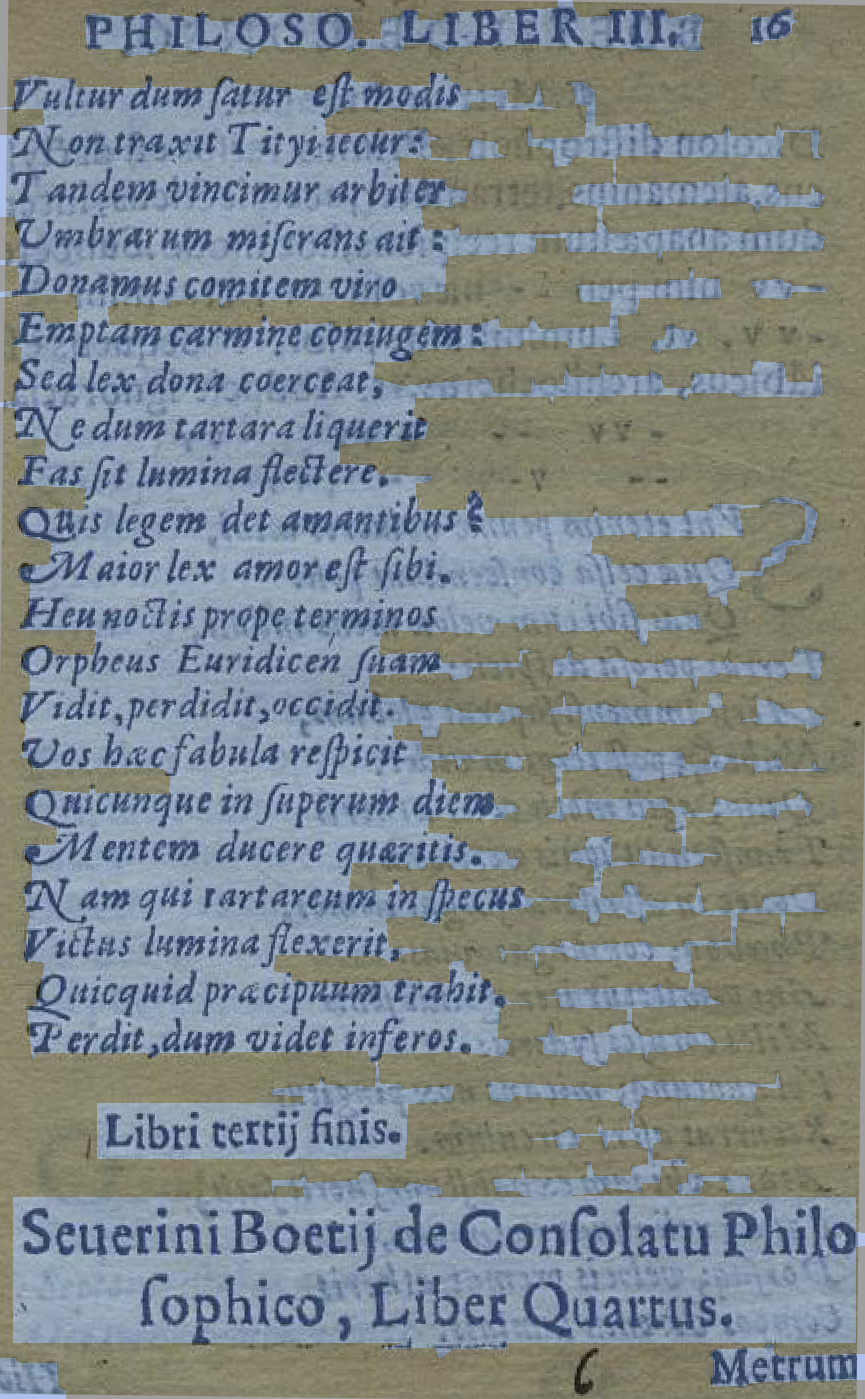
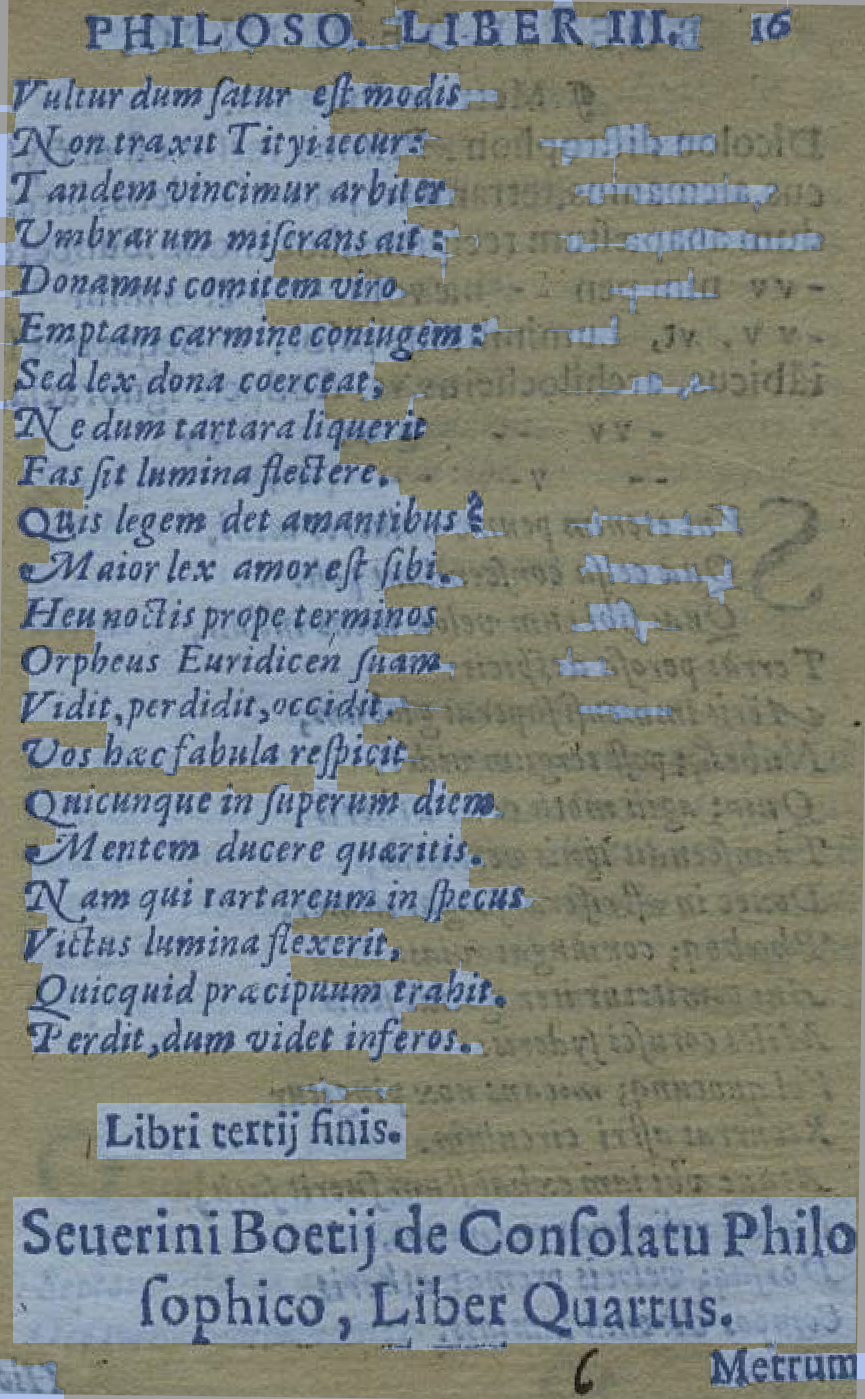
A marcacao passa a ser feita no tamanho de verdade da pagina
"as ferramentas de selecao precisam ser mais precisas, precisam conseguir
selecionar so o texto" - o Samuel, sobre o teste completo.

A mascara de tinta era calculada num reduzido de 1200 px de altura e a resposta
voltava ampliada com vizinho mais proximo. Numa pagina de 300 DPI isso e um
terco da resolucao: a marcacao saia com degraus de tres pixels em volta de cada
letra. Agora a conta e feita no tamanho da pagina, e o k e o mesmo que o filtro
usa - antes o detector e o filtro discordavam sobre o que era tinta na MESMA
pagina.

Regua da selecao: 23 de 26 para 24 de 26. O Pesel 73 passou a separar o titulo
impresso, o numero da pagina e as quatro legendas da foto do bordado - aberto e
conferido imagem por imagem.

O custo obrigou a mexer no medidor de espessura, que virou o gargalo: 1,9 s por
pagina contra 59 ms do proprio Sauvola. Ele passa a medir num reduzido e a
reconverter pela escala. Comparado com a medicao nativa nas 14 paginas do
acervo:

  altura   paginas com k fora de 0,01   custo por pagina
   1500              4 de 14                 105 ms
   2500              1 de 14                 319 ms
  nativo               -                    1900 ms

Em 2500 a resposta empata em 13 das 14 e o custo cai seis vezes.

diff --git a/relatorios/selecao.html b/relatorios/selecao.html
@@ -66,7 +66,7 @@ hr { border: none; border-top: 1px solid #e6e4e0; margin: 2.5em 0; }
 <p>Mede o detector de regioes nas mesmas paginas em toda rodada. Cada
 expectativa foi escrita OLHANDO a pagina, nunca a partir do que o
 programa devolve.</p>
-<p><strong>23 de 26 paginas passaram.</strong></p>
+<p><strong>24 de 26 paginas passaram.</strong></p>
 <h2>O que esta errado</h2>
 <table>
 <thead>
@@ -89,12 +89,6 @@ programa devolve.</p>
 <td>45</td>
 <td>prancha de padrao de bordado, com duas legendas impressas miudas</td>
 <td>texto impresso nao virou letra: so 0% da faixa em y=0.03-0.10; texto impresso nao virou letra: so 0% da faixa em y=0.54-0.63</td>
-</tr>
-<tr>
-<td>Pesel</td>
-<td>73</td>
-<td>foto de bordado montado, com titulo impresso no alto e quatro caixas de legenda no pe</td>
-<td>texto impresso nao virou letra: so 0% da faixa em y=0.03-0.11</td>
 </tr>
 </tbody>
 </table>
@@ -289,7 +283,7 @@ programa devolve.</p>
 <td>partitura manuscrita com letra gotica ocre e pautas</td>
 <td>texto</td>
 <td>0.0%</td>
-<td>88.2%</td>
+<td>89.9%</td>
 <td>0</td>
 <td>sim</td>
 </tr>
@@ -299,7 +293,7 @@ programa devolve.</p>
 <td>pagina de texto impresso em italico, com mancha do v</td>
 <td>texto</td>
 <td>0.0%</td>
-<td>54.3%</td>
+<td>45.6%</td>
 <td>0</td>
 <td>sim</td>
 </tr>
@@ -309,7 +303,7 @@ programa devolve.</p>
 <td>pagina de texto impresso</td>
 <td>texto</td>
 <td>0.0%</td>
-<td>57.4%</td>
+<td>54.5%</td>
 <td>0</td>
 <td>sim</td>
 </tr>
@@ -319,7 +313,7 @@ programa devolve.</p>
 <td>pagina so de texto, com notas na margem e manchas de</td>
 <td>texto</td>
 <td>0.0%</td>
-<td>97.0%</td>
+<td>97.2%</td>
 <td>0</td>
 <td>sim</td>
 </tr>
@@ -358,10 +352,10 @@ programa devolve.</p>
 <td>73</td>
 <td>foto de bordado montado, com titulo impresso no alto</td>
 <td>texto_e_desenho</td>
-<td>88.7%</td>
-<td>6.2%</td>
+<td>58.4%</td>
+<td>20.2%</td>
 <td>0</td>
-<td>NAO</td>
+<td>sim</td>
 </tr>
 <tr>
 <td>Rhetorica</td>
@@ -369,7 +363,7 @@ programa devolve.</p>
 <td>xilogravura emoldurada embaixo de um bloco de texto</td>
 <td>texto_e_desenho</td>
 <td>48.1%</td>
-<td>23.2%</td>
+<td>23.3%</td>
 <td>0</td>
 <td>sim</td>
 </tr>
@@ -386,6 +380,6 @@ programa devolve.</p>
 <p>Uma imagem por pagina, com a marcacao por cima: <strong>vermelho e gravura,
 azul e letra, sem cor e papel</strong>. Estao na pasta <code>selecao/</code> ao lado
 deste relatorio, e as erradas tem ERRADO no nome.</p>
-<p class="rodape">Editor de Impressão &middot; gerado em 06/08/2026 às 19:15</p>
+<p class="rodape">Editor de Impressão &middot; gerado em 08/08/2026 às 01:49</p>
 </body>
 </html>

diff --git a/core/filtros.py b/core/filtros.py
@@ -292,8 +292,36 @@ ESPESSURA_DE_LETRA_FINA, ESPESSURA_DE_LETRA_GROSSA = 5.0, 10.0
 K_PARA_LETRA_FINA, K_PARA_LETRA_GROSSA = 0.30, 0.12
 
 
+# Altura em que a espessura do traco e medida. A medicao usa esqueletizacao,
+# que e a conta mais cara do programa: numa pagina de 300 DPI ela sozinha levava
+# 1,9 s, contra 59 ms do proprio Sauvola. Medida num reduzido e reconvertida
+# pela escala, cai para pouco mais de 100 ms sem mudar a resposta - a espessura
+# e uma media sobre milhares de tracos, e reduzir nao a enviesa.
+#
+# A altura saiu de comparar com a medicao nativa nas 14 paginas do acervo:
+#
+#   altura   paginas com k fora de 0,01 do nativo   custo por pagina
+#    1500                 4 de 14                       105 ms
+#    2000                 2 de 14                       207 ms
+#    2500                 1 de 14                       319 ms
+#    3000                 1 de 14                       435 ms
+#   nativo                  -                          1900 ms
+#
+# Em 2500 a resposta empata com a nativa em 13 das 14 e o custo cai seis vezes.
+# Acima disso so se paga mais caro pela mesma resposta. A que sobra e a pagina
+# 454 do Marial, que cai bem no meio da rampa entre traco fino e grosso, onde
+# qualquer decimo de pixel move o k.
+ALTURA_PARA_MEDIR_TRACO = 2500
+
+
 def k_para_a_letra(cinza: np.ndarray) -> float:
     """O k que a letra desta pagina pede. Ver o comentario acima."""
+    escala = min(1.0, ALTURA_PARA_MEDIR_TRACO / max(1, cinza.shape[0]))
+    if escala < 1.0:
+        cinza = cv2.resize(cinza, (max(8, int(cinza.shape[1] * escala)),
+                                   max(8, int(cinza.shape[0] * escala))),
+                           interpolation=cv2.INTER_AREA)
+
     # A mesma mascara que a regua usa para medir espessura - Otsu -, para o
     # filtro e a regua nao discordarem sobre a grossura da mesma letra.
     _lim, tinta = cv2.threshold(
@@ -308,7 +336,9 @@ def k_para_a_letra(cinza: np.ndarray) -> float:
     esqueleto = skeletonize(tinta > 0)
     if not esqueleto.any():
         return K_NORMAL
-    espessura = float(2.0 * distancia[esqueleto].mean())
+    # De volta a escala da pagina: os limites de 5 e 10 pixels estao escritos
+    # no tamanho de verdade, e nao no reduzido.
+    espessura = float(2.0 * distancia[esqueleto].mean()) / escala
 
     fatia = np.clip(
         (espessura - ESPESSURA_DE_LETRA_FINA)

diff --git a/core/detectar_regioes.py b/core/detectar_regioes.py
@@ -360,25 +360,31 @@ def mascara_de_tinta(img: np.ndarray) -> np.ndarray:
 
     Sauvola local, e nao limiar global: papel envelhecido tem manchas que um
     limiar unico transforma em tinta.
+
+    A conta e feita no TAMANHO DE VERDADE da pagina. Antes ela era feita num
+    reduzido de 1200 px de altura e a resposta voltava ampliada com vizinho mais
+    proximo: numa pagina de 300 DPI isso e um terco da resolucao, e a marcacao
+    saia com degraus de tres pixels em volta de cada letra. Era a queixa do
+    Samuel de que "as ferramentas de selecao precisam ser mais precisas". Uma
+    pagina de cada vez na memoria continua valendo - o que sai daqui e uma
+    mascara de um byte por pixel, e ela morre com a pagina.
+
+    O k tambem passou a ser o mesmo que o filtro usa, medido pela espessura do
+    traco da propria pagina. Com dois k diferentes, o detector e o filtro
+    discordavam sobre o que era tinta na MESMA pagina.
     """
-    from core.filtros import binarizar, janela_para_altura
+    from core.filtros import binarizar, janela_para_altura, k_para_a_letra
 
     cinza = cv2.cvtColor(img, cv2.COLOR_BGR2GRAY) if img.ndim == 3 else img
     altura, largura = cinza.shape[:2]
 
-    escala = min(1.0, ALTURA_ANALISE / altura)
-    pequena = cv2.resize(cinza, (max(8, int(largura * escala)),
-                                 max(8, int(altura * escala))),
-                         interpolation=cv2.INTER_AREA) if escala < 1 else cinza
+    binaria = binarizar(cinza, janela=janela_para_altura(altura),
+                        k=k_para_a_letra(cinza))
+    tinta = (binaria == 0).astype(np.uint8)
 
-    binaria = binarizar(pequena, janela=janela_para_altura(pequena.shape[0]), k=0.20)
-    tinta = binaria == 0
-
-    folga = max(1, int(FOLGA_DA_TINTA * min(pequena.shape[:2])) | 1)
-    tinta = cv2.dilate(tinta.astype(np.uint8),
-                       cv2.getStructuringElement(cv2.MORPH_ELLIPSE, (folga, folga)))
-
-    return cv2.resize(tinta, (largura, altura), interpolation=cv2.INTER_NEAREST) > 0
+    folga = max(1, int(FOLGA_DA_TINTA * min(altura, largura)) | 1)
+    return cv2.dilate(tinta, cv2.getStructuringElement(
+        cv2.MORPH_ELLIPSE, (folga, folga))) > 0
 
 
 def blocos_de_tinta(tinta: np.ndarray) -> np.ndarray:

diff --git a/relatorios/selecao.md b/relatorios/selecao.md
@@ -4,7 +4,7 @@ Mede o detector de regioes nas mesmas paginas em toda rodada. Cada
 expectativa foi escrita OLHANDO a pagina, nunca a partir do que o
 programa devolve.
 
-**23 de 26 paginas passaram.**
+**24 de 26 paginas passaram.**
 
 ## O que esta errado
 
@@ -12,7 +12,6 @@ programa devolve.
 |---|---|---|---|
 | Graduale | 126 | partitura manuscrita: texto gotico, pautas vermelhas e neumas pretos | pagina de texto marcada como desenho: 100% de gravura; o texto nao foi marcado: so 0.0% de letra |
 | Siebmacher | 45 | prancha de padrao de bordado, com duas legendas impressas miudas | texto impresso nao virou letra: so 0% da faixa em y=0.03-0.10; texto impresso nao virou letra: so 0% da faixa em y=0.54-0.63 |
-| Pesel | 73 | foto de bordado montado, com titulo impresso no alto e quatro caixas de legenda no pe | texto impresso nao virou letra: so 0% da faixa em y=0.03-0.11 |
 
 ## Pagina a pagina
 
@@ -35,15 +34,15 @@ programa devolve.
 | Siebmacher | 1 | capa de couro gasta, sem letra | capa | 100.0% | 0.0% | 0 | sim |
 | Siebmacher | 268 | contracapa de couro gasta, sem letra | capa | 100.0% | 0.0% | 0 | sim |
 | Graduale | 126 | partitura manuscrita: texto gotico, pautas vermelhas | texto | 100.0% | 0.0% | 0 | NAO |
-| Graduale | 376 | partitura manuscrita com letra gotica ocre e pautas  | texto | 0.0% | 88.2% | 0 | sim |
-| Boecio | 33 | pagina de texto impresso em italico, com mancha do v | texto | 0.0% | 54.3% | 0 | sim |
-| Boecio | 17 | pagina de texto impresso | texto | 0.0% | 57.4% | 0 | sim |
-| Rhetorica | 223 | pagina so de texto, com notas na margem e manchas de | texto | 0.0% | 97.0% | 0 | sim |
+| Graduale | 376 | partitura manuscrita com letra gotica ocre e pautas  | texto | 0.0% | 89.9% | 0 | sim |
+| Boecio | 33 | pagina de texto impresso em italico, com mancha do v | texto | 0.0% | 45.6% | 0 | sim |
+| Boecio | 17 | pagina de texto impresso | texto | 0.0% | 54.5% | 0 | sim |
+| Rhetorica | 223 | pagina so de texto, com notas na margem e manchas de | texto | 0.0% | 97.2% | 0 | sim |
 | Catecismo | 199 | estampa colorida de pagina inteira: figura sobre fun | desenho | 100.0% | 0.0% | 0 | sim |
 | Siebmacher | 45 | prancha de padrao de bordado, com duas legendas impr | desenho | 100.0% | 0.0% | 0 | NAO |
 | Siebmacher | 133 | prancha de padrao de bordado, em tres faixas | desenho | 100.0% | 0.0% | 0 | sim |
-| Pesel | 73 | foto de bordado montado, com titulo impresso no alto | texto_e_desenho | 88.7% | 6.2% | 0 | NAO |
-| Rhetorica | 112 | xilogravura emoldurada embaixo de um bloco de texto | texto_e_desenho | 48.1% | 23.2% | 0 | sim |
+| Pesel | 73 | foto de bordado montado, com titulo impresso no alto | texto_e_desenho | 58.4% | 20.2% | 0 | sim |
+| Rhetorica | 112 | xilogravura emoldurada embaixo de um bloco de texto | texto_e_desenho | 48.1% | 23.3% | 0 | sim |
 
 ## A historia dos casos dificeis
 
